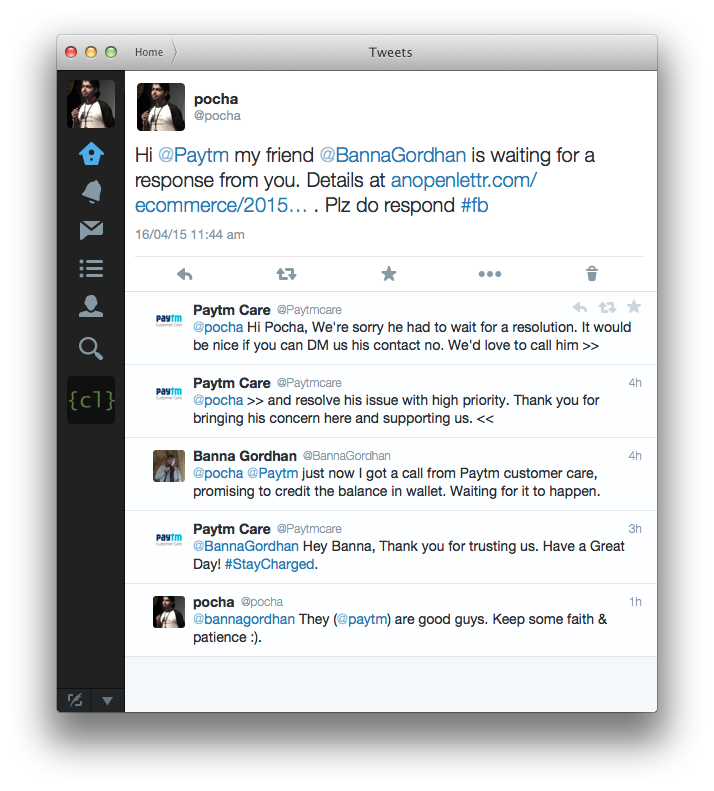
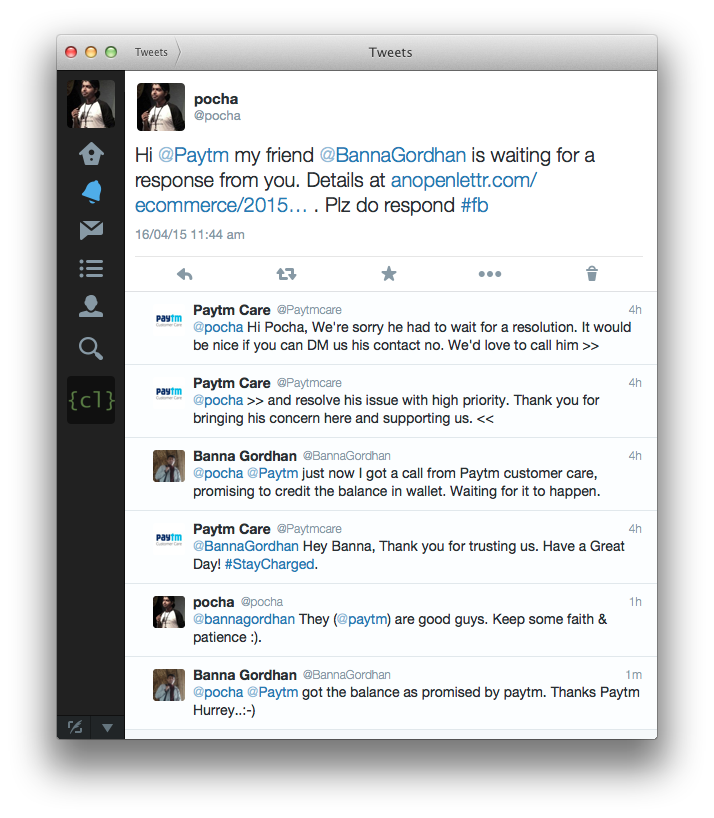
paytm gordhan resolution done

diff --git a/_posts/2015-04-12-paytm-gordhan-screwup.md b/_posts/2015-04-12-paytm-gordhan-screwup.md
@@ -37,12 +37,14 @@ Thank You
 
 <p id="update-1">---------</p>
 
-### Paytm commits to resolution 
+### Paytm resolves my issue 
 
 While my friend Ashish & I both tweeted to Paytm, it took them sometime to notice us. Only when Ashish tweeted to them again today, we heard back from Paytm
 
 ![Paytm Resolution Twitter Screenshot](/images/paytm-gordhan-resolution.png)
 
-I will update the post as soon as money gets credited to my account. Stay tight :-)
+Immediately after the tweet, I got a call from Paytm & the money landed in my account shortly. 
+
+Thank you Paytm. Please do let us know what you doing to rectify your support. I had a word with Ashish too & he agreed that offlate the quality of Paytm support emails have degraded substantially. We would like to hear how you are taking care of the problem. Mind dropping a comment ?
 
 
